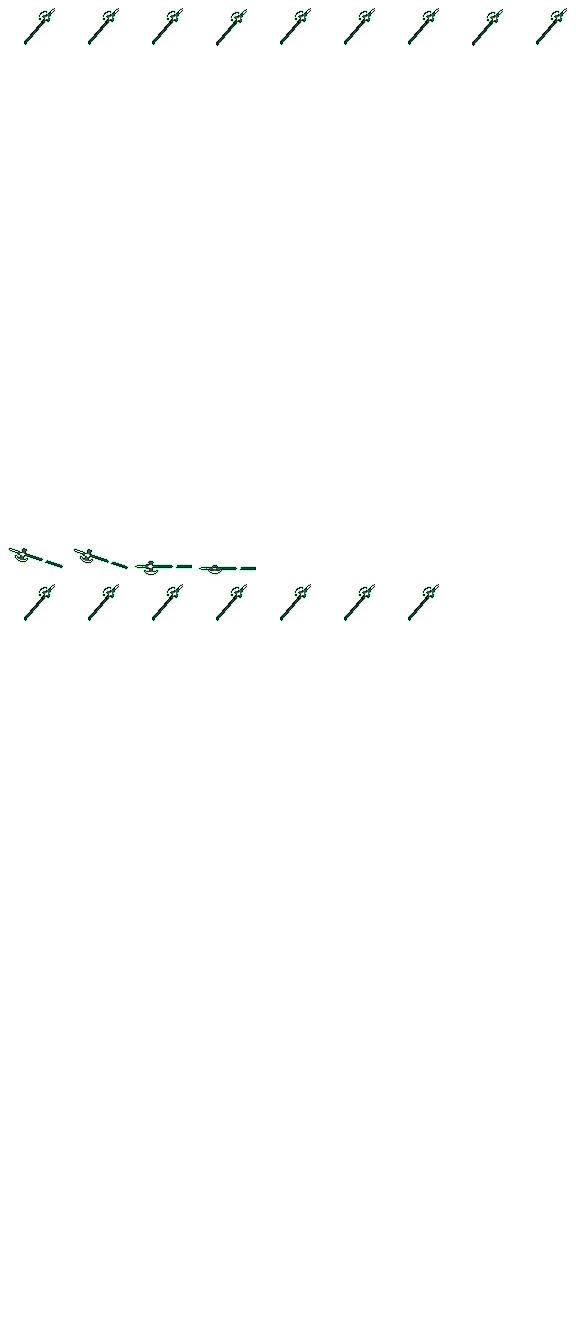
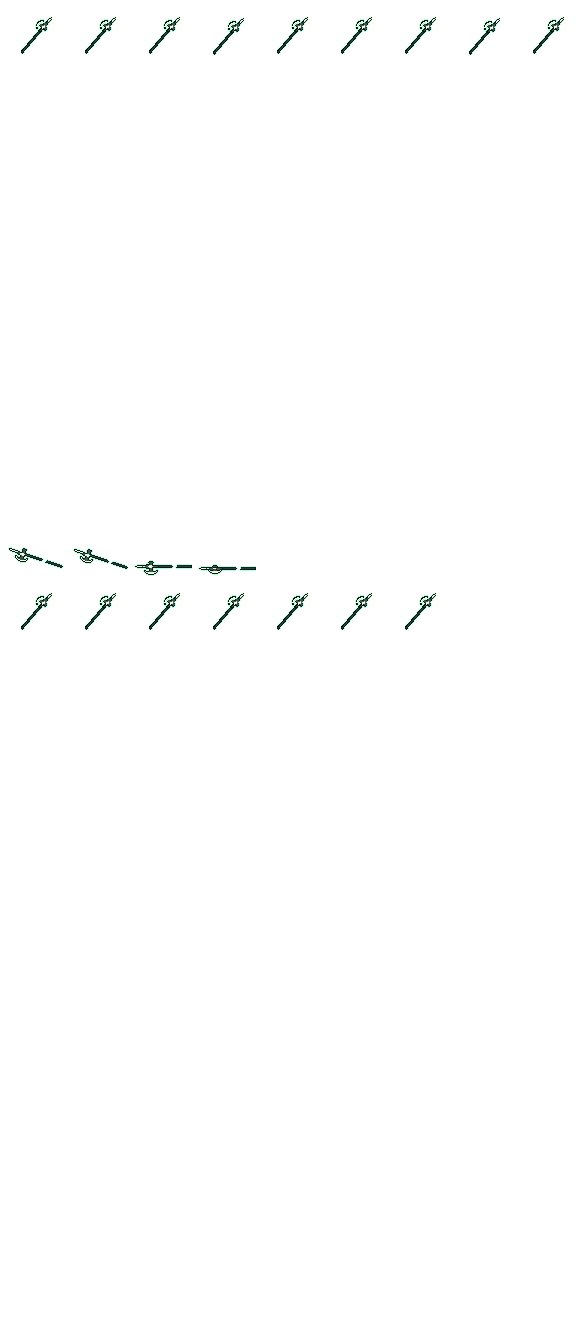
Carried greatsword sits lower — hilt at shoulder height instead of above the head
Claude-Session: https://claude.ai/code/session_01RVFgCBNzd2DQowAD8LfVDX

diff --git a/tools/gear/carry.py b/tools/gear/carry.py
@@ -83,13 +83,13 @@ def carry(iid):
         for col in range(9 if row < 4 else 7):
             dy = bob[row][col]
             if dname == "down":   # หันหน้า: ดาบอยู่หลังตัว เห็นด้ามเหนือไหล่ขวา (ซ้ายจอ) ปลายใบโผล่ล่างขวา
-                img = diag_mir; place(nb, img, row, col, 9, 8 + dy)
+                img = diag_mir; place(nb, img, row, col, 11, 15 + dy)
             elif dname == "up":   # หันหลัง: เห็นดาบพาดหลังเต็ม ๆ
-                img = diag_dn; place(nf, img, row, col, 55 - img.width, 8 + dy)
+                img = diag_dn; place(nf, img, row, col, 52 - img.width, 17 + dy)
             elif dname == "left": # หันซ้าย: หลังอยู่ทางขวาจอ
-                img = steep; place(nb, img, row, col, 37, 6 + dy)
+                img = steep; place(nb, img, row, col, 36, 13 + dy)
             else:                 # หันขวา: หลังอยู่ทางซ้ายจอ
-                img = steep_mir; place(nb, img, row, col, 27 - img.width, 6 + dy)
+                img = steep_mir; place(nb, img, row, col, 28 - img.width, 13 + dy)
     nf.save(src_f); nb.save(src_b)
     return W.size
 
